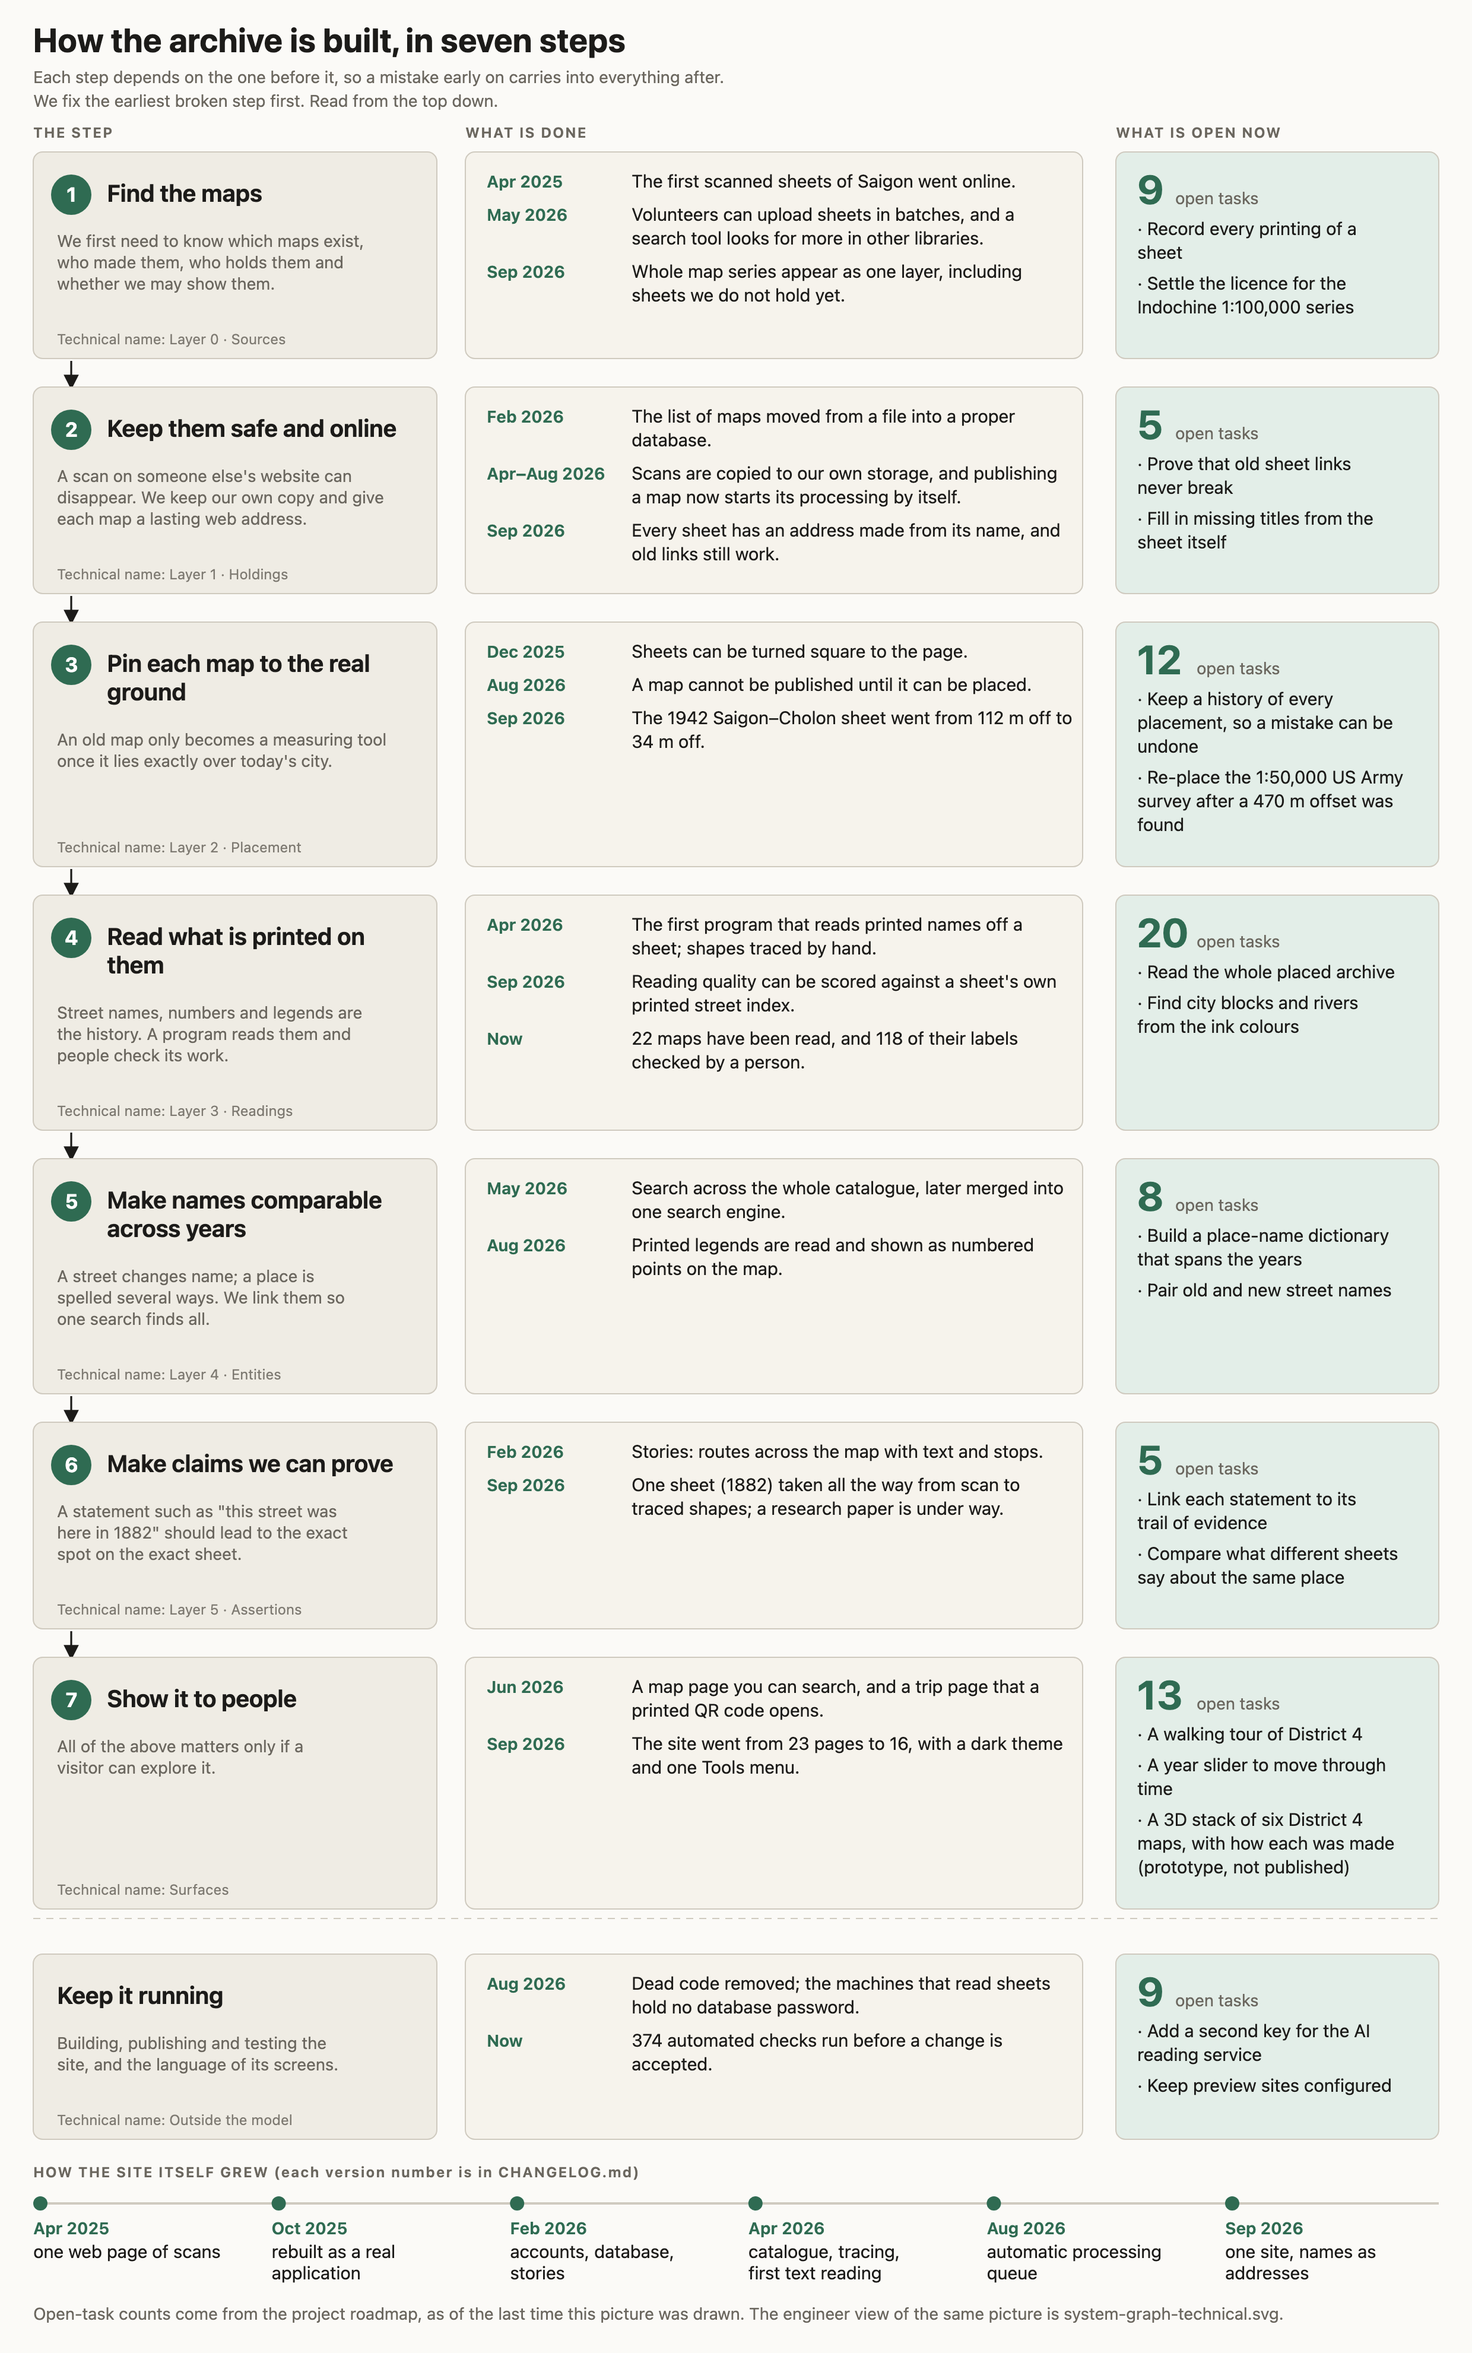
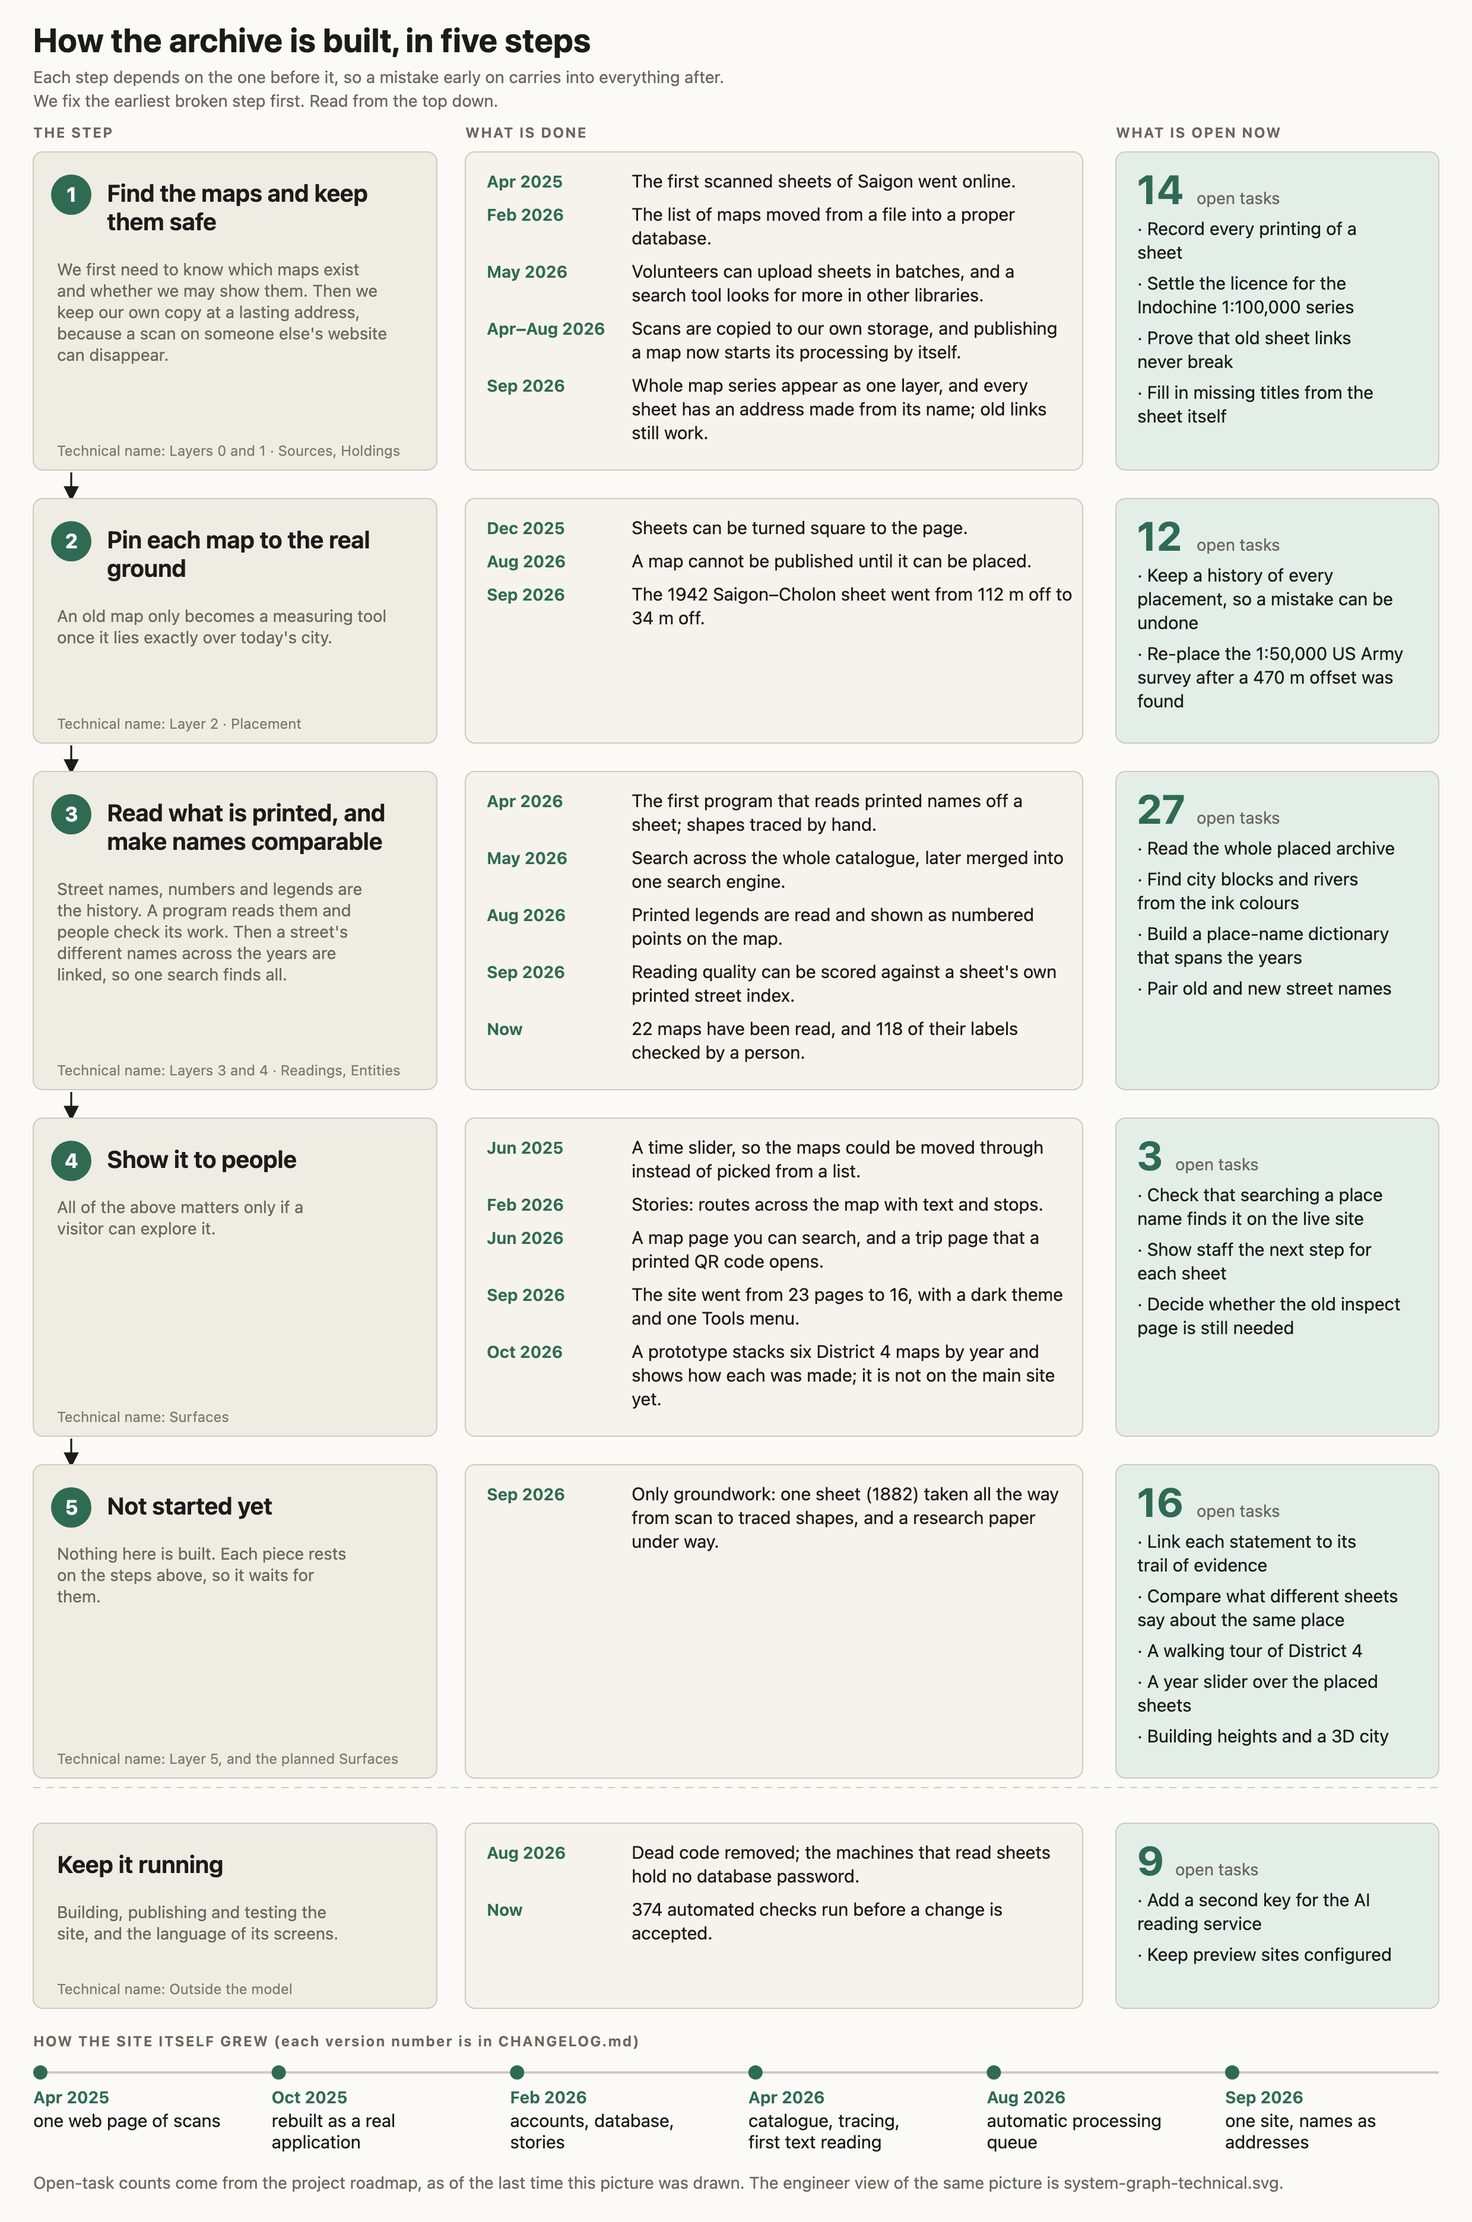
docs: fold the plain system graph to five layers
Find and keep (0-1), Place (2), Read and name (3-4), Show (Surfaces) and Not started yet
(layer 5, the Walk items, building-attributes), the same five the version animation uses.
"Keep it running" stays apart. Counts are derived from §9 and ROADMAP's Walk section and
asserted to sum to §9's 81 (14 + 12 + 27 + 3 + 16 + 9). The engineer view keeps the eight layers.

diff --git a/work/proto/fabric/viewer.js b/work/proto/fabric/viewer.js
@@ -487,7 +487,7 @@ async function load() {
       dl.append(dt, dd);
     }
     const more = document.createElement('a'); more.href = 'https://github.com/lqtue/vietnam-map-archive/blob/main/docs/system-graph.md';
-    more.target = '_blank'; more.rel = 'noopener'; more.textContent = 'All seven steps ↗';
+    more.target = '_blank'; more.rel = 'noopener'; more.textContent = 'All five steps ↗';
     box.replaceChildren(h, dl, more);
   }
   function fitSheetInMobileView(index) {

diff --git a/scripts/gen_system_graph.py b/scripts/gen_system_graph.py
@@ -1,7 +1,7 @@
 #!/usr/bin/env python3
 """Render docs/system-graph.svg: the plain-language picture, for readers who are not engineers.
 
-Seven steps a map goes through, each with why it matters, what is done, and what is open now. No
+Five steps a map goes through, each with why it matters, what is done, and what is open now. No
 code names. The engineer view (tools, branches, files) is gen_system_graph_technical.py.
 Open-task counts are parsed from docs/knowledge-system-plan.md §9; the prose is written here from
 CHANGELOG.md, the /changelog headlines and docs/knowledge-system-plan.md. Run:
@@ -14,47 +14,44 @@ from pathlib import Path
 
 ROOT = Path(__file__).resolve().parent.parent
 
-# (plan key, title, why it matters, technical name, done [(when, text)], doing [plain tasks])
+# The five layers of docs/knowledge-system-plan.md §9 folded to what a visitor can follow, the same five
+# the animation (work/proto/fabric/journey.html) uses. "Keep it running" stays apart: it is not a layer.
+# (group id, title, why it matters, technical name, done [(when, text)], doing [plain tasks])
 STEPS = [
-    ("0.", "Find the maps", "We first need to know which maps exist, who made them, who holds them and whether we may show them.",
-     "Layer 0 · Sources",
+    ("find", "Find the maps and keep them safe", "We first need to know which maps exist and whether we may show them. Then we keep our own copy at a lasting address, because a scan on someone else's website can disappear.",
+     "Layers 0 and 1 · Sources, Holdings",
      [("Apr 2025", "The first scanned sheets of Saigon went online."),
+      ("Feb 2026", "The list of maps moved from a file into a proper database."),
       ("May 2026", "Volunteers can upload sheets in batches, and a search tool looks for more in other libraries."),
-      ("Sep 2026", "Whole map series appear as one layer, including sheets we do not hold yet.")],
-     ["Record every printing of a sheet", "Settle the licence for the Indochine 1:100,000 series"]),
-    ("1.", "Keep them safe and online", "A scan on someone else's website can disappear. We keep our own copy and give each map a lasting web address.",
-     "Layer 1 · Holdings",
-     [("Feb 2026", "The list of maps moved from a file into a proper database."),
       ("Apr–Aug 2026", "Scans are copied to our own storage, and publishing a map now starts its processing by itself."),
-      ("Sep 2026", "Every sheet has an address made from its name, and old links still work.")],
-     ["Prove that old sheet links never break", "Fill in missing titles from the sheet itself"]),
-    ("2.", "Pin each map to the real ground", "An old map only becomes a measuring tool once it lies exactly over today's city.",
+      ("Sep 2026", "Whole map series appear as one layer, and every sheet has an address made from its name; old links still work.")],
+     ["Record every printing of a sheet", "Settle the licence for the Indochine 1:100,000 series", "Prove that old sheet links never break", "Fill in missing titles from the sheet itself"]),
+    ("place", "Pin each map to the real ground", "An old map only becomes a measuring tool once it lies exactly over today's city.",
      "Layer 2 · Placement",
      [("Dec 2025", "Sheets can be turned square to the page."),
       ("Aug 2026", "A map cannot be published until it can be placed."),
       ("Sep 2026", "The 1942 Saigon–Cholon sheet went from 112 m off to 34 m off.")],
      ["Keep a history of every placement, so a mistake can be undone", "Re-place the 1:50,000 US Army survey after a 470 m offset was found"]),
-    ("3.", "Read what is printed on them", "Street names, numbers and legends are the history. A program reads them and people check its work.",
-     "Layer 3 · Readings",
+    ("read", "Read what is printed, and make names comparable", "Street names, numbers and legends are the history. A program reads them and people check its work. Then a street's different names across the years are linked, so one search finds all.",
+     "Layers 3 and 4 · Readings, Entities",
      [("Apr 2026", "The first program that reads printed names off a sheet; shapes traced by hand."),
+      ("May 2026", "Search across the whole catalogue, later merged into one search engine."),
+      ("Aug 2026", "Printed legends are read and shown as numbered points on the map."),
       ("Sep 2026", "Reading quality can be scored against a sheet's own printed street index."),
       ("Now", "22 maps have been read, and 118 of their labels checked by a person.")],
-     ["Read the whole placed archive", "Find city blocks and rivers from the ink colours"]),
-    ("4.", "Make names comparable across years", "A street changes name; a place is spelled several ways. We link them so one search finds all.",
-     "Layer 4 · Entities",
-     [("May 2026", "Search across the whole catalogue, later merged into one search engine."),
-      ("Aug 2026", "Printed legends are read and shown as numbered points on the map.")],
-     ["Build a place-name dictionary that spans the years", "Pair old and new street names"]),
-    ("5.", "Make claims we can prove", "A statement such as \"this street was here in 1882\" should lead to the exact spot on the exact sheet.",
-     "Layer 5 · Assertions",
-     [("Feb 2026", "Stories: routes across the map with text and stops."),
-      ("Sep 2026", "One sheet (1882) taken all the way from scan to traced shapes; a research paper is under way.")],
-     ["Link each statement to its trail of evidence", "Compare what different sheets say about the same place"]),
-    ("Surfaces", "Show it to people", "All of the above matters only if a visitor can explore it.",
+     ["Read the whole placed archive", "Find city blocks and rivers from the ink colours", "Build a place-name dictionary that spans the years", "Pair old and new street names"]),
+    ("show", "Show it to people", "All of the above matters only if a visitor can explore it.",
      "Surfaces",
-     [("Jun 2026", "A map page you can search, and a trip page that a printed QR code opens."),
-      ("Sep 2026", "The site went from 23 pages to 16, with a dark theme and one Tools menu.")],
-     ["A walking tour of District 4", "A year slider to move through time", "A 3D stack of six District 4 maps, with how each was made (prototype, not published)"]),
+     [("Jun 2025", "A time slider, so the maps could be moved through instead of picked from a list."),
+      ("Feb 2026", "Stories: routes across the map with text and stops."),
+      ("Jun 2026", "A map page you can search, and a trip page that a printed QR code opens."),
+      ("Sep 2026", "The site went from 23 pages to 16, with a dark theme and one Tools menu."),
+      ("Oct 2026", "A prototype stacks six District 4 maps by year and shows how each was made; it is not on the main site yet.")],
+     ["Check that searching a place name finds it on the live site", "Show staff the next step for each sheet", "Decide whether the old inspect page is still needed"]),
+    ("ahead", "Not started yet", "Nothing here is built. Each piece rests on the steps above, so it waits for them.",
+     "Layer 5, and the planned Surfaces",
+     [("Sep 2026", "Only groundwork: one sheet (1882) taken all the way from scan to traced shapes, and a research paper under way.")],
+     ["Link each statement to its trail of evidence", "Compare what different sheets say about the same place", "A walking tour of District 4", "A year slider over the placed sheets", "Building heights and a 3D city"]),
     ("Outside", "Keep it running", "Building, publishing and testing the site, and the language of its screens.",
      "Outside the model",
      [("Aug 2026", "Dead code removed; the machines that read sheets hold no database password."),
@@ -65,11 +62,20 @@ GROWTH = [("Apr 2025", "one web page of scans"), ("Oct 2025", "rebuilt as a real
           ("Apr 2026", "catalogue, tracing, first text reading"), ("Aug 2026", "automatic processing queue"), ("Sep 2026", "one site, names as addresses")]
 
 plan = (ROOT / "docs/knowledge-system-plan.md").read_text()
-counts = {}
+rows = {}
 for line in plan.split("## 9.")[1].split("\n"):
     m = re.match(r"\| \*\*(\d\.|Surfaces|Outside)", line)
     if m:
-        counts[m.group(1)] = len(re.findall(r"`[a-z0-9-]+`", line.split("|")[3]))
+        rows[m.group(1)] = re.findall(r"`([a-z0-9-]+)`", line.split("|")[3])
+# "Not started" = layer 5, the Walk section of ROADMAP (planned, nothing shipped) and building-attributes.
+roadmap = (ROOT / "docs/ROADMAP.md").read_text()
+walk = roadmap.split("\n## Walk")[1].split("\n## ")[0]
+ahead = set(rows["5."]) | set(re.findall(r"^- \[ \] \*\*`([^`]+)`", walk, re.M)) | {"building-attributes"}
+ahead &= {n for r in rows.values() for n in r}
+pick = lambda *keys: [n for k in keys for n in rows[k] if n not in ahead]
+counts = {"find": len(pick("0.", "1.")), "place": len(pick("2.")), "read": len(pick("3.", "4.")),
+          "show": len(pick("Surfaces")), "ahead": len(ahead), "Outside": len(rows["Outside"])}
+assert sum(counts.values()) == sum(len(r) for r in rows.values())
 
 WIDTH, M = 1240, 28
 XS, WS = M, 340          # step card
@@ -84,7 +90,7 @@ def wrap(t, n):
 
 
 o, y = [], 128
-o.append(f'<text class="h1" x="{M}" y="44">How the archive is built, in seven steps</text>')
+o.append(f'<text class="h1" x="{M}" y="44">How the archive is built, in five steps</text>')
 o.append(f'<text class="mut" x="{M}" y="70">Each step depends on the one before it, so a mistake early on carries into everything after.</text>')
 o.append(f'<text class="mut" x="{M}" y="90">We fix the earliest broken step first. Read from the top down.</text>')
 for x, t in [(XS, "THE STEP"), (XD, "WHAT IS DONE"), (XN, "WHAT IS OPEN NOW")]:
@@ -167,7 +173,7 @@ text{font-family:ui-sans-serif,system-ui,-apple-system,"Segoe UI",sans-serif;fon
 rect.card{fill:var(--card);stroke:var(--line)}rect.card2{fill:var(--card2);stroke:var(--line)}rect.card3{fill:var(--card3);stroke:var(--line)}
 circle.dot{fill:var(--acc)}.arr{stroke:var(--fg);stroke-width:1.6}.div{stroke:var(--line);stroke-dasharray:6 5}.div2{stroke:var(--line);stroke-width:2}
 """
-svg = f"""<svg xmlns="http://www.w3.org/2000/svg" viewBox="0 0 {WIDTH} {H_TOTAL}" width="{WIDTH}" role="img" aria-label="Seven steps a map goes through in the Vietnam Map Archive, from finding the maps to showing them to people, with what is done and what is open at each step">
+svg = f"""<svg xmlns="http://www.w3.org/2000/svg" viewBox="0 0 {WIDTH} {H_TOTAL}" width="{WIDTH}" role="img" aria-label="Five steps a map goes through in the Vietnam Map Archive, from finding the maps to showing them to people, with what is done and what is open at each step">
 <style>{css}</style>
 <defs><marker id="a" viewBox="0 0 10 10" refX="5" refY="5" markerWidth="8" markerHeight="8" orient="auto"><path d="M0 0L10 5L0 10z" fill="var(--fg)"/></marker></defs>
 <rect width="{WIDTH}" height="{H_TOTAL}" fill="var(--bg)"/>

diff --git a/docs/system-graph.md b/docs/system-graph.md
@@ -1,14 +1,21 @@
 # System graph
 
-![How the archive is built, in seven steps](system-graph.png)
+![How the archive is built, in five steps](system-graph.png)
 
-The plain-language view, for anyone. Seven steps a map goes through, from finding it to showing it,
+The plain-language view, for anyone. Five steps a map goes through, from finding it to showing it,
 with what is done and what is open at each. Each step depends on the one before it, so a mistake
-early on carries into everything after. Fix the earliest broken step first.
+early on carries into everything after. Fix the earliest broken step first. "Keep it running" sits
+apart because it is not a layer.
+
+The five are the plan's layers folded together: Find and keep (0–1), Place (2), Read and name (3–4),
+Show (Surfaces), and **Not started yet** (layer 5, the Walk items, and `building-attributes`). The
+version animation `work/proto/fabric/journey.html` uses the same five. Which open items count as
+"not started" is decided in `gen_system_graph.py` from §9 and ROADMAP's Walk section, so the counts
+follow the docs: 14 + 12 + 27 + 3 + 16 = 72, plus 9 for keeping it running, which is §9's 81.
 
 ## Engineer view
 
-`system-graph-technical.png` (and `.svg`) shows the same steps as the knowledge layers of
+`system-graph-technical.png` (and `.svg`) shows the plan's eight layers unfolded, as in
 `docs/knowledge-system-plan.md` §9, with the tools, research files and git branches in each row.
 
 - **Containment is the link.** A tool or research strand sits in the row of the layer it acts on.

diff --git a/CLAUDE.md b/CLAUDE.md
@@ -133,7 +133,7 @@ the ten dead builds: **`docs/deploy.md`**. The rules:
 - **The object model:** `knowledge-system-plan.md` — every object, its link fill rates, the ranked
   gaps, and §9, the index of every open ROADMAP item by layer. When an item is added to or closed in
   ROADMAP, move its name in §9 in the same commit. `system-graph.md` draws it twice: a plain-language
-  seven-step picture for non-engineers and an engineer view with tools, research and branches
+  five-step picture for non-engineers and an engineer view with tools, research and branches
 - **Outward-facing prose, not engineering reference:** `strategy.md`, `theory.md`, `user-guide.md`
 
 Special rules:
